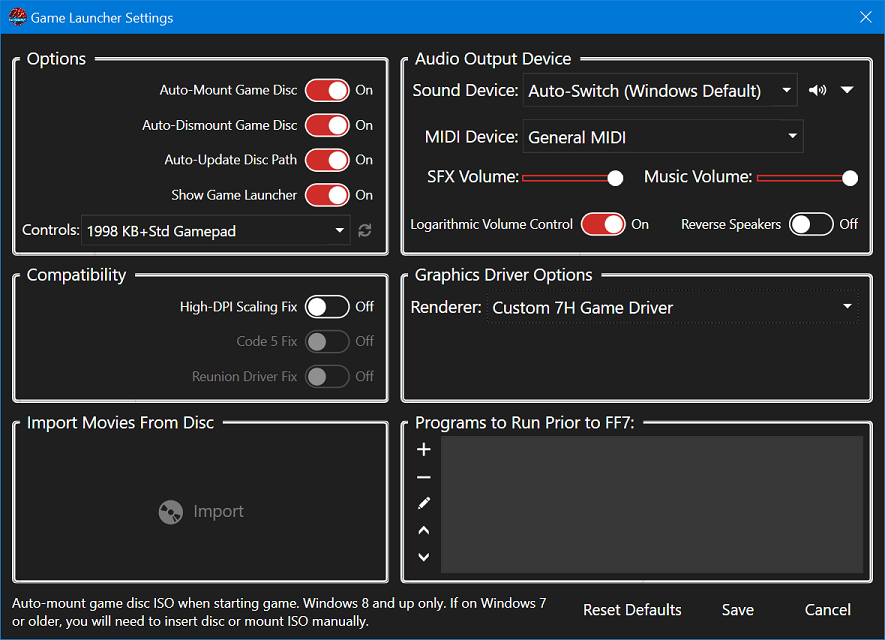
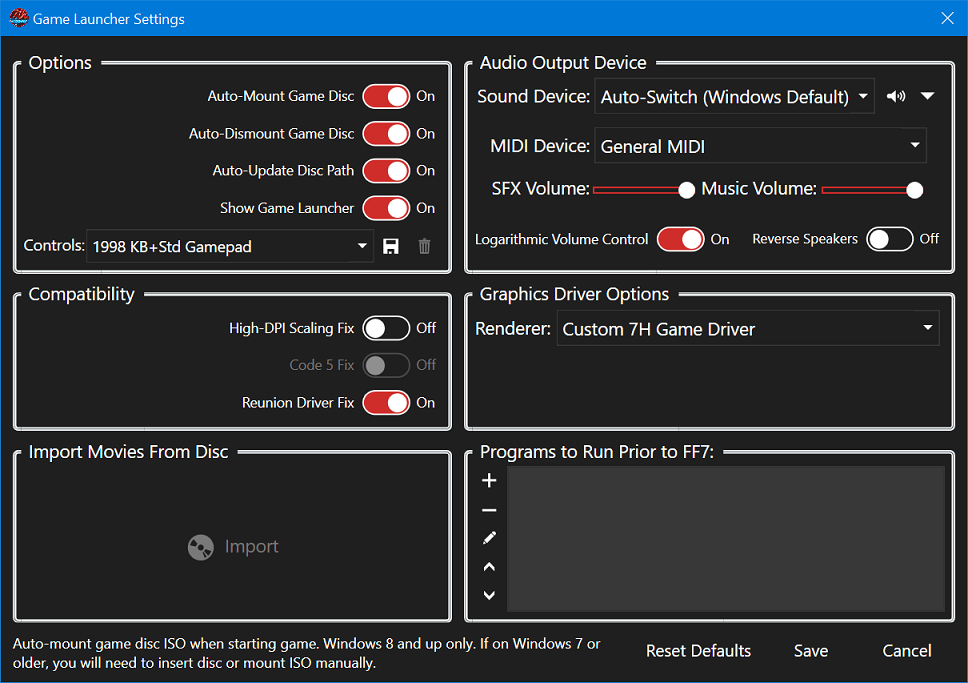
chore: update help docs and increment version
- version set to 2.0.3.406
- changes to help docs

diff --git a/SeventhHeavenUI/Resources/Help/userhelp.html b/SeventhHeavenUI/Resources/Help/userhelp.html
@@ -45,6 +45,8 @@
       <p style = "font-family: Arial, Helvetica, sans-serif;font-size:16px;">
 <center><a href="index.html">What is 7th Heaven?</a>	|	<a href="getstarted.html">Getting Started</a>	|	<a href="userhelp.html">Using 7th Heaven</a>	|	<a href="modhelp.html">Creating Mods</a>	|	<a href="troubleshooting.html">FAQ/Troubleshooting</a></center>
 
+<center><iframe width="651" height="366" src="https://www.youtube.com/embed/f9rBC7K0SYM" frameborder="0" allow="accelerometer; autoplay; encrypted-media; gyroscope; picture-in-picture" allowfullscreen></iframe></center>
+
 Contents:<br />
 <ol type="1">
   <li><a href="#mainui">Basic Overview</a></li>
@@ -290,8 +292,9 @@ Tip: You can also double-click a mod to download it.
 <br /><br />
 <b>Configure Mod: </b>Click<img src="images/buttons/appbar.settings.png" style="max-height:30px; vertical-align:middle">to change the settings for the selected mod. See the <a href="#ui_modsidebar_detail">Mod Sidebar</a> and <a href="#configmod">Configure Mod</a> sections for more information.
 <br /><br />
-<b>Category: </b>Categories tell you the general contents of a mod or what it affects in game. More importantly, categories are used to help you and 7th Heaven determine the best Load Order for your mods. Categories are new in 7th Heaven 2.0, so older mods may display 'Unknown' for the category. If the category is 'Unknown'. please inform the mod author that they should update their mod to include new category information. 7th Heaven allows you to manually set/change the category so that the mod can be Auto Sorted (see below).
-<br /><br />
+<b>Category: </b>Categories tell you the general contents of a mod or what it affects in game. More importantly, categories are used to help you and 7th Heaven determine the best Load Order for your mods. Categories are new in 7th Heaven 2.0, so older mods may display 'Unknown' for the category. If the category is 'Unknown'. please inform the mod author that they should update their mod to include new category information. 7th Heaven allows you to manually set/change the category so that the mod can be Auto Sorted (see below).<br />
+<center><img src="images/screens/mymods.category.png" style="max-height:300px"></center>
+<br />
 <b>Load Order: </b>7th Heaven applies the contents of your activated mods to your game in order from top to bottom. It's a game of 'King of the Hill', and the mod on top always wins. This is <b>important</b> to keep in mind so you can organize your mods appropriately. For example, let's say you have 2 music mods. Let's pretend that Music Mod 'A' contains only 1 music track, the Gold Saucer Theme. It's your favorite version of the song and you want to hear it in the game. Let's also pretend that Music Mod 'B' contains every music track in the game, including the Gold Saucer Theme, but it's not the version of the theme you like best. In this example, if Music Mod 'A' is ABOVE Music Mod 'B' in your list, you will hear your favorite Gold Saucer Theme when you visit the Gold Saucer. Why? Because 7th Heaven will 'see' the Gold Saucer Theme from Music Mod 'A' FIRST and will apply it to the game. However, let's say you put Music Mod 'B' on top of Music Mod 'A' in your Load Order instead. You will NEVER hear your favorite Gold Saucer Theme that is in Music Mod 'A'. Why? Because 7th Heaven will 'see' the Gold Saucer Theme from Music Mod 'B' first, and will therefore ignore the song in the mod (Music Mod 'A') below it. That is a very basic example of how your Load Order affects the game. It gets more complicated when you add in multiple mods that affect multiple things in the game like textures for battle screens, the world map, spells, 3D character models, music, movies, gameplay, language and translation mods, etc.
 <br /><br />
 <b>In general, it is a good idea to only have ONE mod from a given category active at a time. If you switch between multiple mods in the same category, deactivate the mod not in use to prevent conflicts. Always deactivate mods that you are not using. Do NOT install and activate every conceivable mod because you 'want all the things'. That is NOT how modding works! You will not see everything, it will heavily slow down your game, and can even cause game crashes to occur.</b>
@@ -373,6 +376,9 @@ Tip: You can also double-click a mod to download it.
 <br /><br />
 
 <b>How to Use (Create Catalog Tab): </b>Click 'Load' if you have an existing catalog xml file you want to edit. Click on the 'Import' button if you have an existing mod that you want to add to your catalog. Select the mod or its mod.xml file and the information from it will be displayed in the fields. If you don't have an existing mod to load information from, you will need to manually enter data into the fields. For your download link where the mod will be downloaded from, select the 'Link Kind', whether it is a Google Drive (GDrive) link, or a 'MegaSharedFolder' or other URL (standard web address). Paste the download link into the 'Link Source' field. Links will be converted into an iros:// protocol link. iros:// links are formatted like 'iros://Url/http$website.com/myfile.iro' for a URL web address. For GDrive, go into your Google Drive and create a shareable link. The link would be something like 'https://drive.google.com/open?id=1mX0q6Yb4cgYNYkAmd8ocSfGu0c2QHT0B' the link would look like 'iros://GDrive/fileID' where 'fileiD' is the '1mX0q6Yb4cgYNYkAmd8ocSfGu0c2QHT0B' part of the link. Once you have all of the fields filled out, click on the 'Add' button in the top right corner. This will add that mod to the list for your catalog on the left. Repeat for any and all mods you want to include in your catalog. Once you're finished adding mods to your list, click the 'Generate' button to display the XML for you catalog. Click the 'Save' button to save the output to a file that you can use to upload. Add the catalog subscription link that points to this file into 7th Heaven and check out and test your catalog.
+<br /><br />
+
+<b>How to Use (Mega Link Generator Tab): </b>Paste a Mega folder ID into the text box, click "Generate Links", and it will generate a link for every file in that Mega shared folder. To get the folder ID, right-click the folder in Mega, ask for a link, and the folder ID is the part of the link beginning with the string !#F.
 <br /><br />
 </p>
 
@@ -570,9 +576,9 @@ There are additional Command Line Parameters that can be used in order to work w
 <center><img src="images/screens/themes.png" style="max-height:400px;"></center>
 <b>To Get Here: </b>Click 'Settings' then 'Change Color Theme' in the <a href="#ui_menus_detail">Menu Bar</a>.
 <br /><br />
-<b>What it is: </b>Allows you to customize the colors of your User Interface for 7th Heaven. Some presets like 'Dark Mode', 'Light Mode', and 'Classic 7H' are included, but you can create your own themes. You can even export and share your themes with your friends and they can import them into their 7th Heaven. All colors are in the #AARRGGBB format (Alpha blending, Red, Green, Blue).
+<b>What it is: </b>Allows you to customize the colors and background image of your User Interface for 7th Heaven. Some presets like 'Dark Mode w/ Background', 'Light Mode', and 'Classic 7H' are included, but you can create your own themes. You can even export and share your themes with your friends and they can import them into their 7th Heaven! All colors are in the #AARRGGBB format (Alpha blending, Red, Green, Blue).
 <br /><br />
-<b>How to Use: </b>Choose an included theme from the drop down, or immediately start customizing your colors. All you need to do is click the color box to the right of any option and select a color. You can select a standard or listed color on the 'Standard' tab, or select the 'Advanced' tab to get very detailed color selection options by inputting specific RGB values or dragging the sliders. 7th Heaven will change in real-time but won't save the changes until you actually click the 'Save' button. If you're unhappy with your selections and want to start over, just click 'Cancel'.
+<b>How to Use: </b>Choose an included theme from the drop down, or immediately start customizing your colors. All you need to do is click the color box to the right of any option and select a color. You can select a standard or listed color on the 'Standard' tab, or select the 'Advanced' tab to get very detailed color selection options by inputting specific RGB values or dragging the sliders. You can also select a background image by clicking<img src="images/buttons/appbar.folder.ellipsis.png" style="max-height:30px; vertical-align:middle">. When a background image is selected, 7th Heaven will apply transparency to some UI elements so you can see the background. 7th Heaven will change/preview the UI in real-time but won't save the changes until you actually click the 'Save' button. If you're unhappy with your selections and want to start over, just click 'Cancel'.
 <br /><br />
 <b>Exporting/Importing: </b>After you've created a theme and if you want to back it up or share it with a friend, you can click the<img src="images/buttons/appbar.search.filter.png" style="max-height:30px; vertical-align:middle">drop down next to the 'Save' button and choose 'Export Theme...'. Pick a folder where you want to save it, and give it a file name, then click 'Save' on the dialog. Now you can share your theme with a friend or save it somewhere safe in case you need to restore/import it later. To import a previously exported theme, click the 'Import' button at the top next to the theme selection drop down box. Navigate to where the theme file you want to import is, select the theme file, and click 'Open' on the dialog.
 </p>
@@ -669,7 +675,7 @@ There are additional Command Line Parameters that can be used in order to work w
 <center><img src="images/screens/game.launcher.settings.png" style="max-width:700px;"></center>
 <b>To Get Here: </b>Click 'Settings' then 'Game Launcher' in the <a href="#ui_menus_detail">Menu Bar</a>.
 <br /><br />
-<b>What it is: </b>The <a href="#gamelauncher">Game Launcher</a> is a 3-in-1 feature. It includes a completely new implementation of what was previously known as the 'Game Converter', it's a replacement for the game's original 'FF7Config.exe' tool, and it's an actual game launcher that verifies everything is OK for the state of the game and your mods then starts Final Fantasy VII. The Game Launcher Settings includes options for all of these things as well as being able to select your Keyboard/Controller options, disc mounting options, and a handy 'Import Movies From Disc' feature for those people that still have the 1998 release and want and easy way to copy their movies over to the hard drive. You can also choose to add programs that you want to launch prior to running the game such as batch files or other scripts, or if using an older OS like Windows 7, you can run commands with your ISO mounting program as an example. <i>Note: All settings for the Game Launcher are 'pushed' after you click the 'Play' button. The settings are not immediately applied when you click 'Save'.</i>
+<b>What it is: </b>The <a href="#gamelauncher">Game Launcher</a> is a 3-in-1 feature. It includes a completely new implementation of what was previously known as the 'Game Converter', it's a replacement for the game's original 'FF7Config.exe' tool, and it's an actual game launcher that verifies everything is OK for the state of the game and your mods then starts Final Fantasy VII. The Game Launcher Settings includes options for all of these things as well as being able to select your Keyboard/Controller options, disc mounting options, and a handy 'Import Movies From Disc' feature for those people that still have the 1998 release and want an easy way to copy their movies over to the hard drive. You can also choose to add programs that you want to launch prior to running the game such as batch files or other scripts, or if using an older OS like Windows 7, you can run commands with your ISO mounting program as an example. <i>Note: All settings for the Game Launcher are 'pushed' after you click the 'Play' button. The settings are not immediately applied when you click 'Save'.</i>
 <br /><br />
 <b>How to Use: </b>See below for an explanation of each option in the various sections.
 <br /><br />
@@ -686,7 +692,7 @@ There are additional Command Line Parameters that can be used in order to work w
   <br />
   <li><b>Show Game Launcher: </b>Shows or hides the detailed status/log when launching the game. If this option is<img src="images/buttons/toggle.on.png" style="max-height:30px; vertical-align:middle">, the <a href="#gamelauncher">Game Launcher</a> window will be displayed. Otherwise, you will see status updates from the <a href="#gamelauncher">Game Launcher</a> in the <a href="#ui_infobar_detail">Info/Status Bar (Log)</a> only.</li>
   <br />
-  <li><b><a id="controls">Controls</a>: </b>The controls you have selected here will automatically be applied every time you start the game. This fixes a problem for some people where FF7 would frequently lose your configuration and make you have to setup your controls over and over. You can select a preset keyboard and gamepad button configuration from the drop down. If you've already had custom keys/buttons set up in the game but clicked 'Play', 7th Heaven has already made a backup copy of your controls for you and you can select them again if you like. Just select 'Custom' from the drop down menu and the controls you had set will be applied when you run the game. If you have 'Custom' controls set and you go into the game and change them, be sure you come back to this setting and click the<img src="images/buttons/appbar.refresh.png" style="max-height:30px; vertical-align:middle">button. This will force 7th Heaven to re-import your controls settings from the game so they can be applied the next time you click 'Play'.</li>
+  <li><b><a id="controls">Controls</a>: </b>The controls you have selected here will automatically be applied every time you start the game. This fixes a problem for some people where FF7 would frequently lose your configuration and make you have to setup your controls over and over. You can select a preset keyboard and gamepad button configuration from the drop down. If you want to add your own controls that you currently have set in the game, simply click<img src="images/buttons/appbar.save.png" style="max-height:30px; vertical-align:middle">, give the controls a name, then click 'OK' to save them as a new preset. If you want to delete a custom preset that you have selected, click<img src="images/buttons/appbar.delete.png" style="max-height:30px; vertical-align:middle">. You cannot delete the included presets.</li>
   <br />
 </ul>
 
@@ -706,7 +712,7 @@ There are additional Command Line Parameters that can be used in order to work w
   <li><b>Reunion Driver Fix: </b>Starting with The Reunion R06 (the FULL installed version, NOT mod versions made specifically for compatibility with 7th Heaven!), a custom driver was poorly implemented. Rather than using a launcher, Reunion names its driver 'ddraw.dll' which is saved in the FF7 install folder. Unfortunately due to FF7's DirectX design, this causes FF7 to load this file on startup every single time, even if you don't want it to, and even if you have Reunion disabled in the Options.ini file. This creates compatibility problems with other mods and 7th Heaven because the Reunion driver is taking over the rendering engine of the game and so it ignores other mods or mod utilities' settings or requirements. What this 'fix' does, is the <a href="#gamelauncher">Game Launcher</a> looks for 'ddraw.dll' and if it exists, renames it temporarily so that FF7 can start normally. Once FF7 starts, the <a href="#gamelauncher">Game Launcher</a> renames the Reunion driver back. This way, 7th Heaven doesn't interfere with someone wanting to play with the Reunion mod outside of 7th Heaven, but also doesn't allow the Reunion to take over as the driver when it is unwanted. <b>Note: This option is disabled and unselectable by default unless The Reunion R06+ is detected to be installed. If it is detected, the option turns on automatically.</b></li>
 </ul>
 
-<b>Import Movies From Disc: </b>If you have the original 1998 disc release of Final Fantasy VII, this tool will assist you with copying over the movies from your disc onto your hard drive. Just follow the prompts on what disc to insert, then click the big<img src="images/buttons/appbar.cd.png" style="max-height:30px; vertical-align:middle">import button. Movies from that disc will be copied to your movies path. If additional discs are needed to be inserted, you will be prompted for them.
+<b><a id="importmovies">Import Movies From Disc</a>: </b>If you have the original 1998 disc release of Final Fantasy VII, this tool will assist you with copying over the movies from your disc onto your hard drive. If all movie files are already found on your computer, this option is disabled. Just follow the prompts on what disc to insert, then click the big<img src="images/buttons/appbar.cd.png" style="max-height:30px; vertical-align:middle">import button. Movies from that disc will be copied to your movies path. If additional discs are needed to be inserted, you will be prompted for them.
 <br /><center><img src="images/screens/import.movies.png" style="max-width:350px;"></center>
 <br /><br />
 

diff --git a/SeventhHeavenUI/Resources/Help/getstarted.html b/SeventhHeavenUI/Resources/Help/getstarted.html
@@ -196,7 +196,8 @@ If you've installed Final Fantasy VII under a system folder like 'Program Files'
 <br><br>
 <center>
 <img src="images\installs\1998-08.png"><br>
-<i>9. Click 'OK'. Ignore the message instructions. You're done!</i>
+<i>9. Click 'OK'. Ignore the message instructions. You're done!<br>
+It is recommended you copy the FF7 movies to your computer using the <a href="userhelp.html#importmovies">Import Movies From Disc</a> feature.</i>
 </center>
 <br><br>
 
@@ -234,11 +235,18 @@ If you've installed Final Fantasy VII under a system folder like 'Program Files'
 
 <center>
 <img src="images\installs\7H-06.png"><br>
-<i>6. Click 'Finish'. Open 7th Heaven from your Start Menu or Desktop (if you created shortcuts).
+<i>6. Optionally open 7th Heaven after install by leaving the 'Launch 7th Heaven' box checked. Click 'Finish'.
+<br>You can always later open 7th Heaven from your Start Menu or Desktop (if you created shortcuts).
 <br>Otherwise, run it from the installed folder\7th Heaven.exe.
+</i>
 <br><br>
+</center>
 
-7. Within 7th Heaven, download, install, and activate your desired mods. Change your settings in the Settings menu if you like, and click the 'Play' button! That's it!</i>
+<center>
+<img src="images\installs\7H-07.png"><br>
+<i>
+7. Within 7th Heaven, download, install, and activate your desired mods. Change your settings in the Settings menu if you like, and click the 'Play' button! That's it!
+<br>Check out the <a href="userhelp.html">Using 7th Heaven</a> section to learn how to use 7th Heaven's features.</i>
 </center>
 
       </p>

diff --git a/SeventhHeavenUI/Resources/Help/modhelp.html b/SeventhHeavenUI/Resources/Help/modhelp.html
@@ -376,7 +376,7 @@ You can create basic Catalog Subscriptions using the <a href="userhelp.html#cata
 
 ExtractSubFolder is useful if your ZIP contains files that are not useful for the mod and you only need some of the files from the ZIP.<br /><br />
 
-ExtractInto is useful if your ZIP has not got the right folder structure for 7thHeaven. Like if your avatar files are just inside the ZIP with no folder names, you need to extract them into a folder called "menu_us.lgp" for 7th Heaven to work.
+ExtractInto is useful if your ZIP doesn't have the right folder structure for 7th Heaven. Like if your avatar files are just inside the ZIP with no folder names, you need to extract them into a folder called "menu_us.lgp" for 7th Heaven to work.
 <br /><br />
 
 <b><a id="patchingmods">Patching Mods</a></b>: If you've released a large mod and want to update it with a small .irop patch file (can be created with the IRO Tools in 7th Heaven), you can add a &lt;Patch&gt; entry in the catalog so people who already have the mod can update using the small .irop patch file. See the example below.</b>

diff --git a/7thHeaven.Code/Properties/AssemblyInfo.cs b/7thHeaven.Code/Properties/AssemblyInfo.cs
@@ -37,6 +37,6 @@ using System.Runtime.InteropServices;
 // You can specify all the values or you can default the Build and Revision Numbers 
 // by using the '*' as shown below:
 // [assembly: AssemblyVersion("1.0.*")]
-[assembly: AssemblyVersion("2.0.3.405")]
-[assembly: AssemblyFileVersion("2.0.3.405")]
+[assembly: AssemblyVersion("2.0.3.406")]
+[assembly: AssemblyFileVersion("2.0.3.406")]
 [assembly: AssemblyInformationalVersion("1.0.0.0")]

diff --git a/7thWrapperLib/Properties/AssemblyInfo.cs b/7thWrapperLib/Properties/AssemblyInfo.cs
@@ -37,6 +37,6 @@ using System.Runtime.InteropServices;
 // You can specify all the values or you can default the Build and Revision Numbers 
 // by using the '*' as shown below:
 // [assembly: AssemblyVersion("1.0.*")]
-[assembly: AssemblyVersion("2.0.3.405")]
-[assembly: AssemblyFileVersion("2.0.3.405")]
+[assembly: AssemblyVersion("2.0.3.406")]
+[assembly: AssemblyFileVersion("2.0.3.406")]
 [assembly: AssemblyInformationalVersion("1.0.0.0")]

diff --git a/SeventhHeavenUI/Properties/AssemblyInfo.cs b/SeventhHeavenUI/Properties/AssemblyInfo.cs
@@ -51,5 +51,5 @@ using System.Windows;
 // You can specify all the values or you can default the Build and Revision Numbers
 // by using the '*' as shown below:
 // [assembly: AssemblyVersion("1.0.*")]
-[assembly: AssemblyVersion("2.0.3.405")]
-[assembly: AssemblyFileVersion("2.0.3.405")]
+[assembly: AssemblyVersion("2.0.3.406")]
+[assembly: AssemblyFileVersion("2.0.3.406")]
